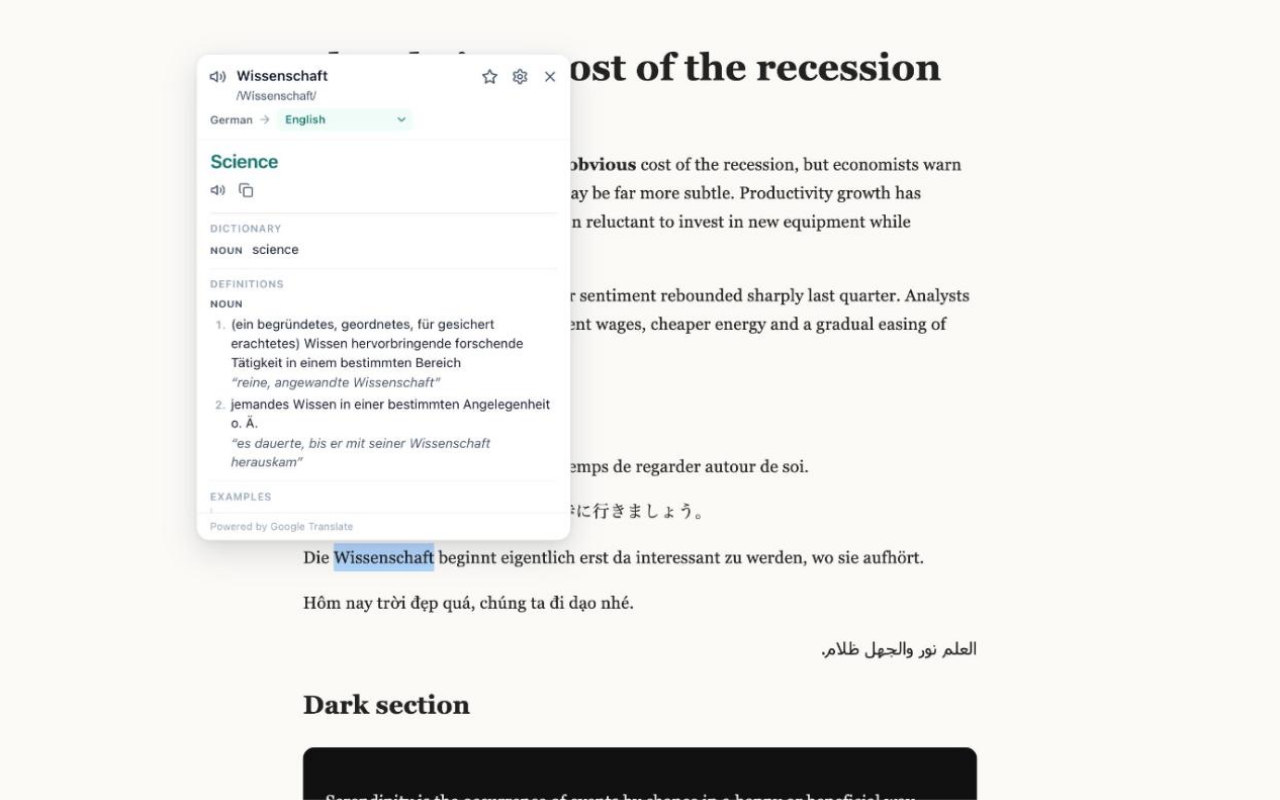
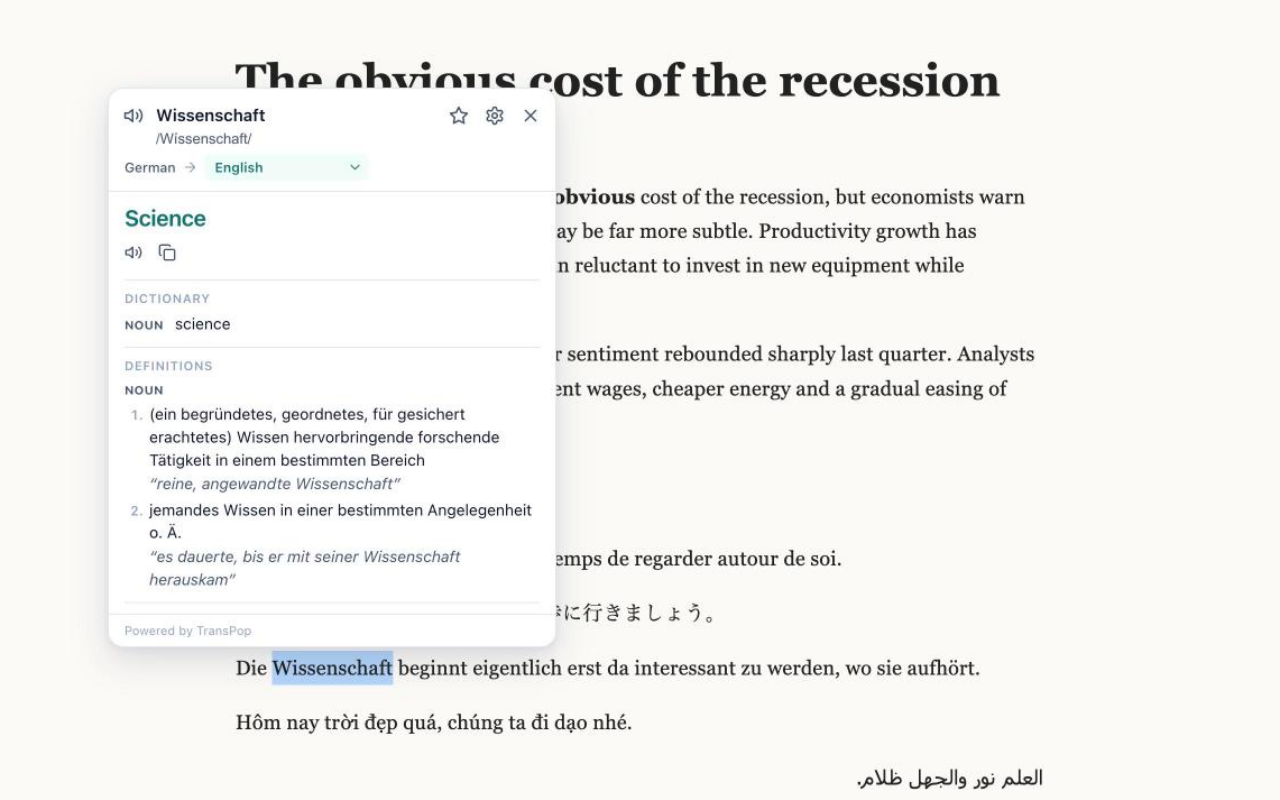
Sync from dev@1f6031c: UI: "Powered by TransPop" on every translation result
Product build of dev (guides, demos, tests and tooling removed — see .mainignore on dev).

diff --git a/extension/src/popup/popup.js b/extension/src/popup/popup.js
@@ -376,7 +376,7 @@ function renderResult(result) {
   els.outTranslit.textContent = translit;
   els.outTranslit.hidden = !translit;
 
-  renderPowered(result.provider);
+  renderPowered();
   setOutputActionsEnabled(true);
   updateLabels();
   updateSwapState();
@@ -428,9 +428,8 @@ function setOutputActionsEnabled(on) {
   els.btnStar.disabled = !on;
 }
 
-function renderPowered(provider = state.settings?.provider) {
-  const name = t(provider === 'microsoft' ? 'common_provider_microsoft' : 'common_provider_google');
-  els.powered.textContent = t('common_powered_by', name);
+function renderPowered() {
+  els.powered.textContent = t('common_powered_by_app');
 }
 
 function updateLabels() {

diff --git a/extension/src/welcome/welcome.js b/extension/src/welcome/welcome.js
@@ -389,12 +389,11 @@ function renderResult(result) {
   });
   const translationRow = el('div', { class: 'pop-translation-row' }, translation, speakButton(result.translation, result.to));
 
-  const provider = t(result.provider === 'microsoft' ? 'common_provider_microsoft' : 'common_provider_google');
   pop.replaceChildren(
     el('div', { class: 'pop-meta' }, el('span', { class: 'pop-pair', text: `${fromName} → ${toName}` }), closeButton()),
     sourceRow,
     translationRow,
-    el('div', { class: 'pop-foot', text: t('common_powered_by', provider) }),
+    el('div', { class: 'pop-foot', text: t('common_powered_by_app') }),
   );
 }
 

diff --git a/extension/src/options/options.js b/extension/src/options/options.js
@@ -348,7 +348,7 @@ function updatePreview(s) {
   preview.definitions.hidden = !s.showDefinitions;
   preview.examples.hidden = !s.showExamples;
   preview.pair.textContent = `${getLanguageName('en')} → ${getLanguageName('vi')}`;
-  preview.provider.textContent = t(s.provider === 'microsoft' ? 'common_provider_microsoft' : 'common_provider_google');
+  preview.provider.textContent = 'TransPop';
 }
 
 /* ---------- Voice test ---------- */

diff --git a/extension/src/content/bubble.js b/extension/src/content/bubble.js
@@ -632,7 +632,7 @@
     renderBody(s);
     const provider = r && typeof r.provider === 'string' ? r.provider : '';
     els.foot.hidden = !provider;
-    els.foot.textContent = provider ? t('common_powered_by', [t(`common_provider_${provider}`) || provider]) : '';
+    els.foot.textContent = provider ? t('common_powered_by_app') : '';
     bubbleEl.setAttribute('aria-busy', s.loading ? 'true' : 'false');
 
     if (s.revealed) {

diff --git a/extension/src/content/crop.js b/extension/src/content/crop.js
@@ -942,7 +942,7 @@
     else if (s.state === 'ocr-error') renderOcrError(s);
     else renderDone(s);
     const provider = s.result && typeof s.result.provider === 'string' ? s.result.provider : '';
-    e.powered.textContent = provider ? t('common_powered_by', [t(`common_provider_${provider}`) || provider]) : '';
+    e.powered.textContent = provider ? t('common_powered_by_app') : '';
     schedulePosition();
   }
 

diff --git a/extension/src/capture/capture.js b/extension/src/capture/capture.js
@@ -345,7 +345,7 @@ function setPhase(phase) {
 function renderPowered() {
   const provider = state.phase === 'result' && state.result?.provider;
   els.powered.hidden = !provider;
-  els.powered.textContent = provider ? t('common_powered_by', t(`common_provider_${provider}`) || provider) : '';
+  els.powered.textContent = provider ? t('common_powered_by_app') : '';
 }
 
 async function recognize() {

diff --git a/CHANGELOG.md b/CHANGELOG.md
@@ -31,6 +31,8 @@ The format follows [Keep a Changelog](https://keepachangelog.com/en/1.1.0/) and 
 
 ### Changed
 
+- Translation results (bubble, popup, capture page) now say **Powered by TransPop**; the translation service in use
+  is still disclosed in the store listing, the privacy policy and Settings → General.
 - Tabs that were open before installing/updating now work right away: explicit actions (shortcut, right-click, popup button) inject TransPop on demand. Pages TransPop can't script (PDF viewer, `chrome://`) open the capture page in a tab next to the page — never a separate window.
 - New teal brand colour and a new icon (two speech bubbles).
 - Keyboard-shortcut names in Settings follow the display language.
